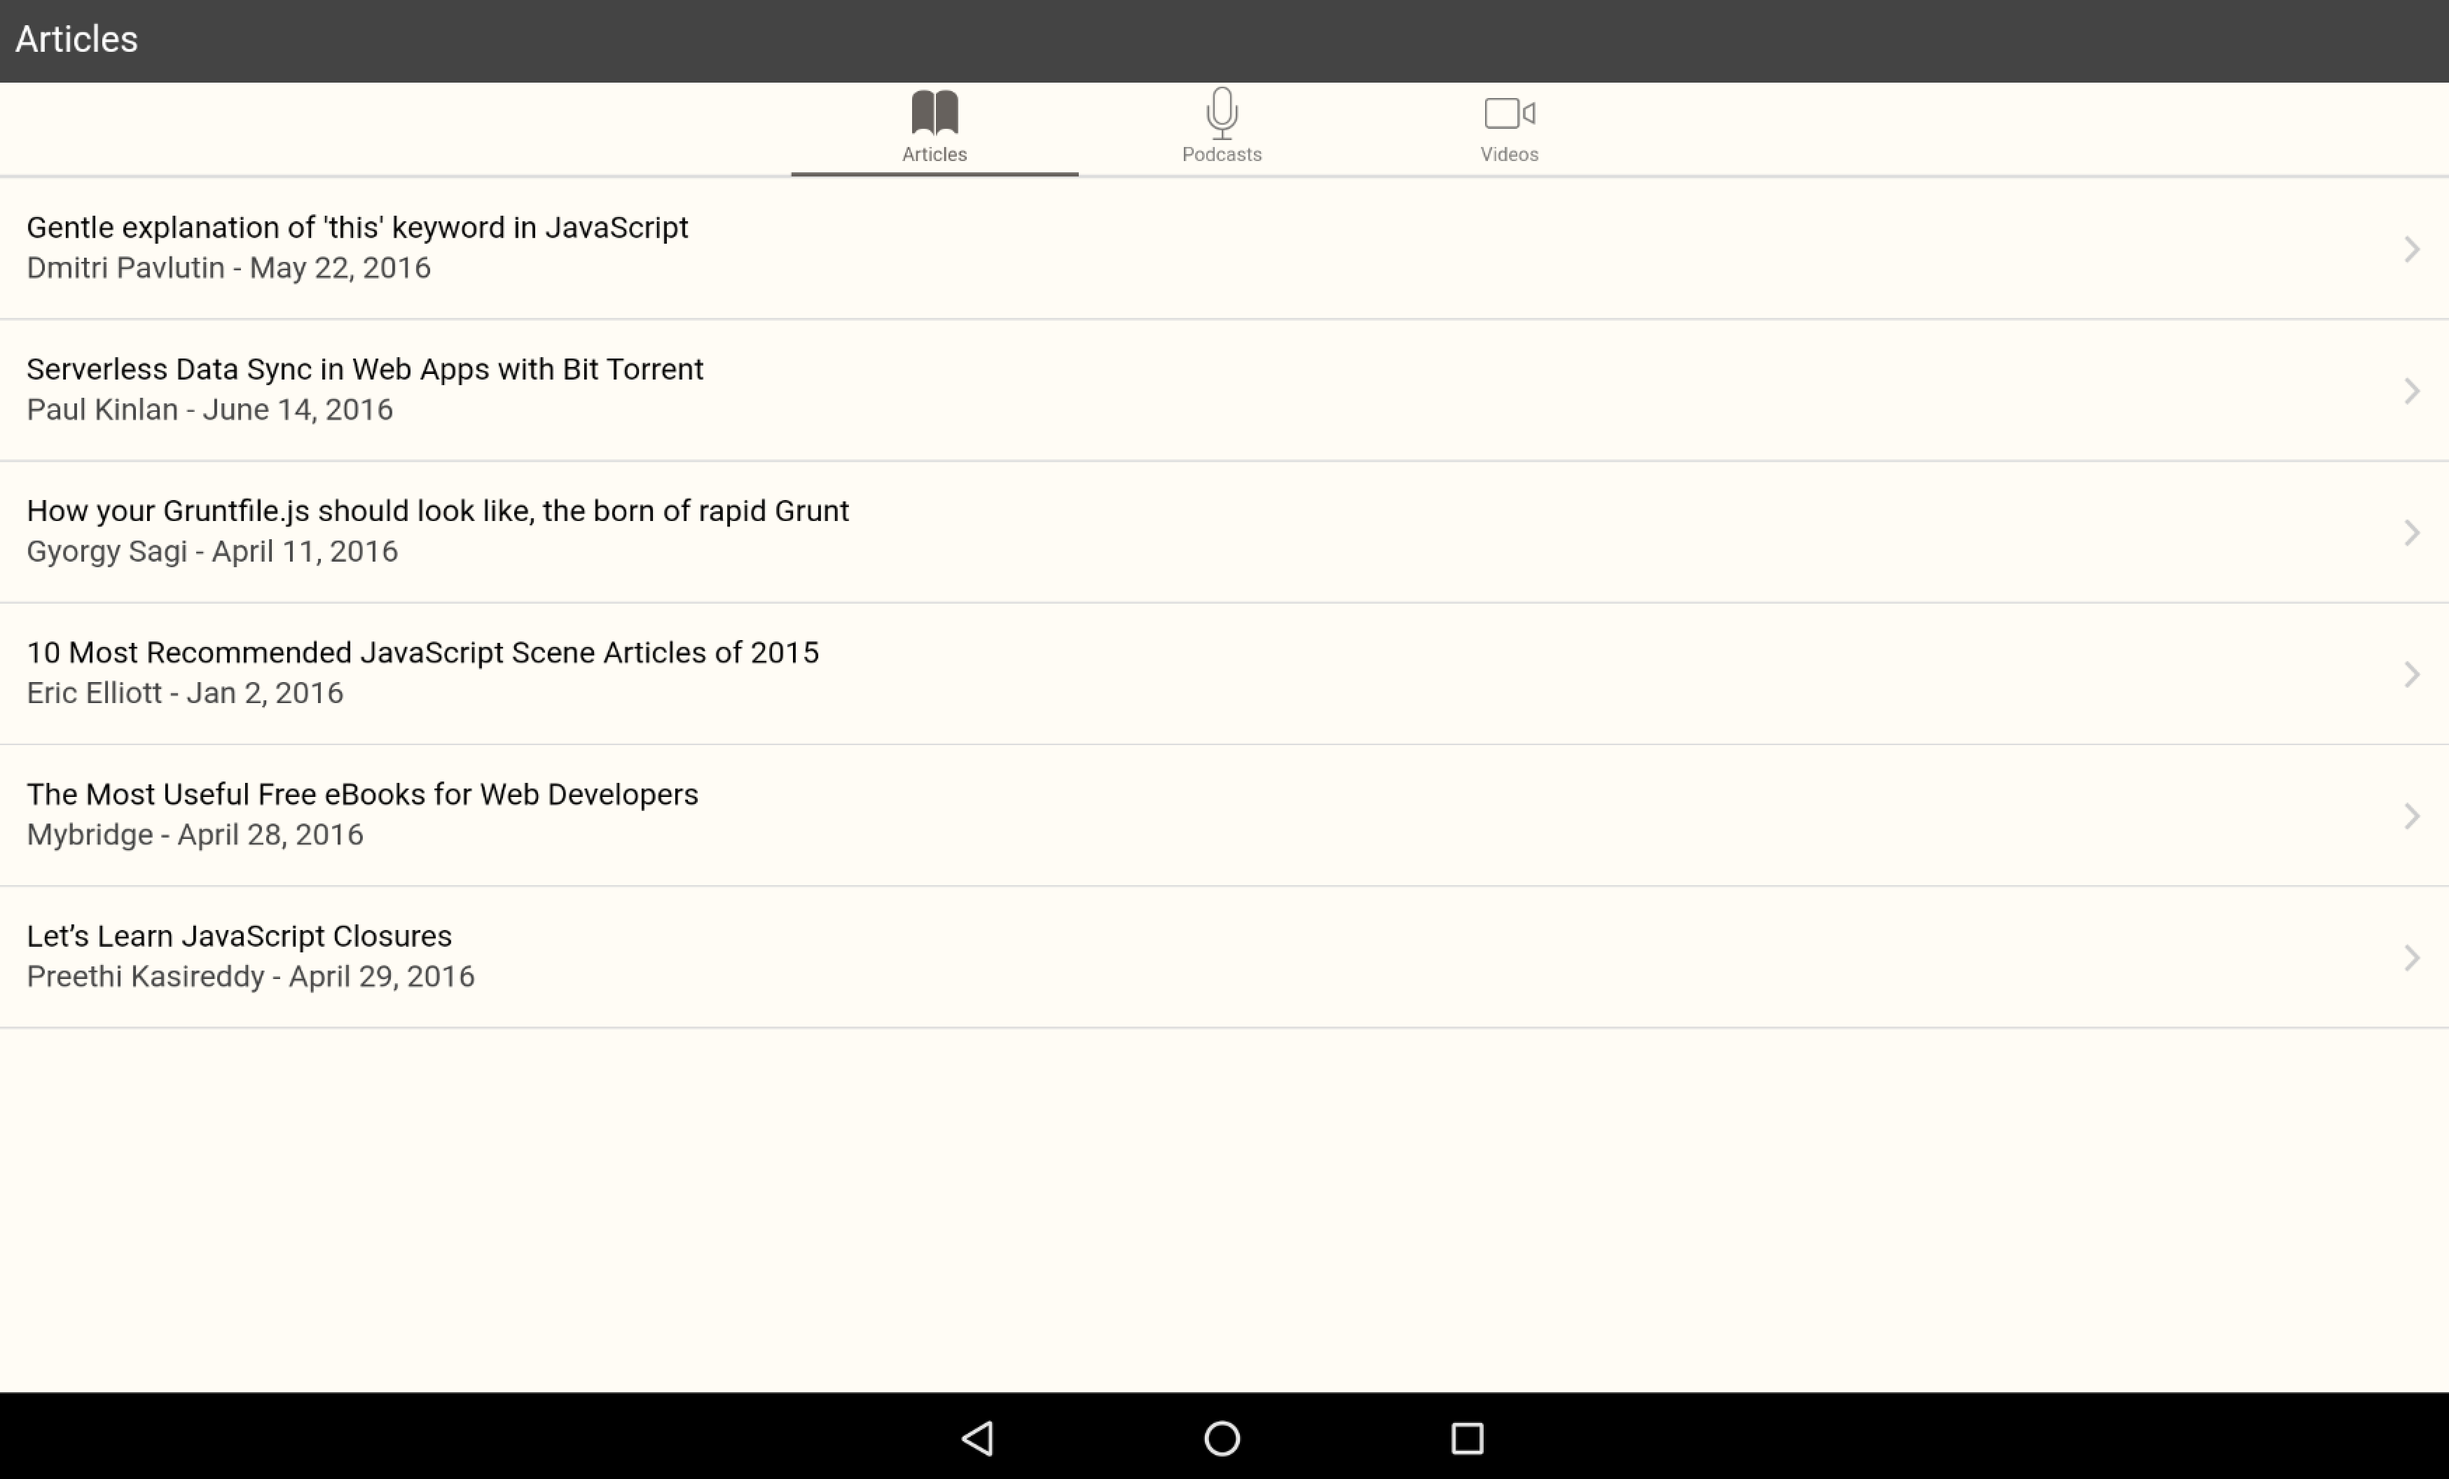
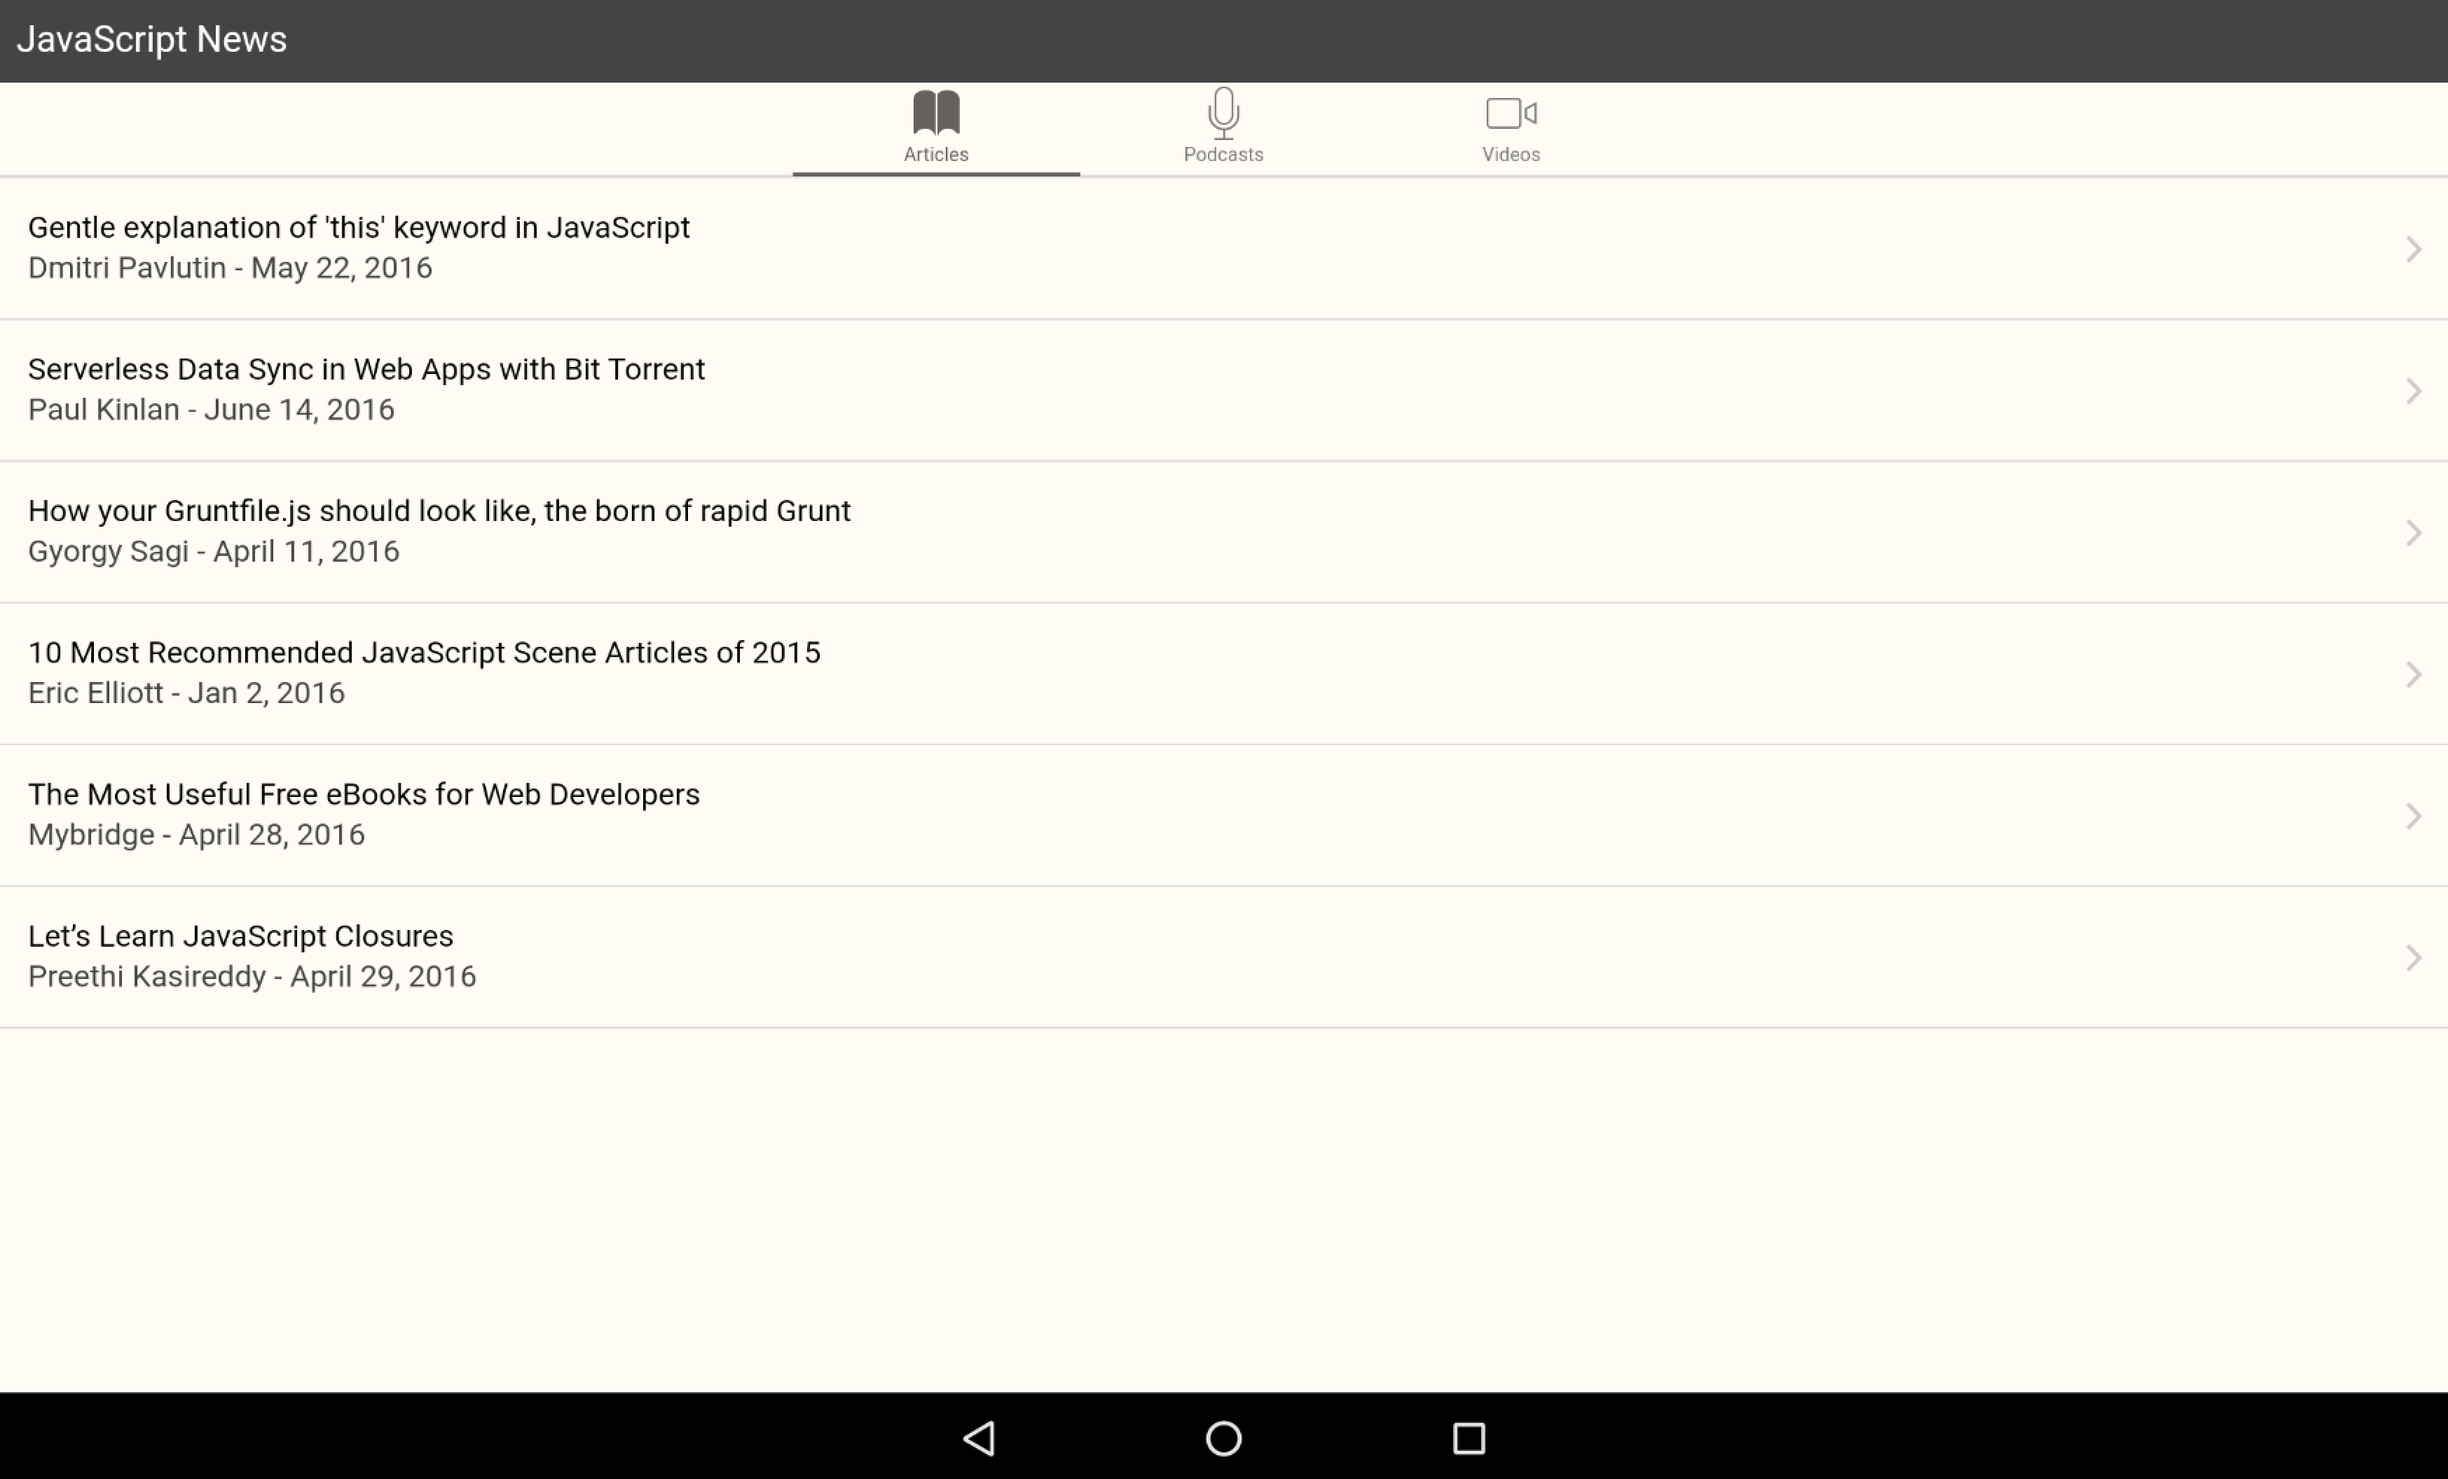
Changed title content

diff --git a/www/templates/tab-podcasts.html b/www/templates/tab-podcasts.html
@@ -1,4 +1,4 @@
-<ion-view on-swipe-left="podcastsSwipeLeft()" on-swipe-right="podcastsSwipeRight()" view-title="Podcasts">
+<ion-view on-swipe-left="podcastsSwipeLeft()" on-swipe-right="podcastsSwipeRight()" view-title="JavaScript News">
   <ion-content>
     <ion-list>
       <ion-item class="item item-icon-right" ng-repeat="podcast in podcasts" type="item-text-wrap" ng-click="incrementPodcast({{podcast}});openURL('{{podcast.url}}')">

diff --git a/www/templates/tab-articles.html b/www/templates/tab-articles.html
@@ -1,4 +1,4 @@
-<ion-view on-swipe-left="articlesSwipeLeft()" view-title="Articles">
+<ion-view on-swipe-left="articlesSwipeLeft()" view-title="JavaScript News">
   <ion-content>
     <ion-list>
       <ion-item class="item item-icon-right" ng-repeat="article in articles" type="item-text-wrap" ng-click="incrementArticle({{article}});openURL('{{article.url}}')">

diff --git a/www/templates/tab-videos.html b/www/templates/tab-videos.html
@@ -1,4 +1,4 @@
-<ion-view on-swipe-right="videosSwipeRight()" view-title="Videos">
+<ion-view on-swipe-right="videosSwipeRight()" view-title="JavaScript News">
   <ion-content>
     <ion-list>
       <ion-item class="item item-icon-right" ng-repeat="video in videos" type="item-text-wrap" ng-click="incrementVideo({{video}});openURL('{{video.url}}')">
